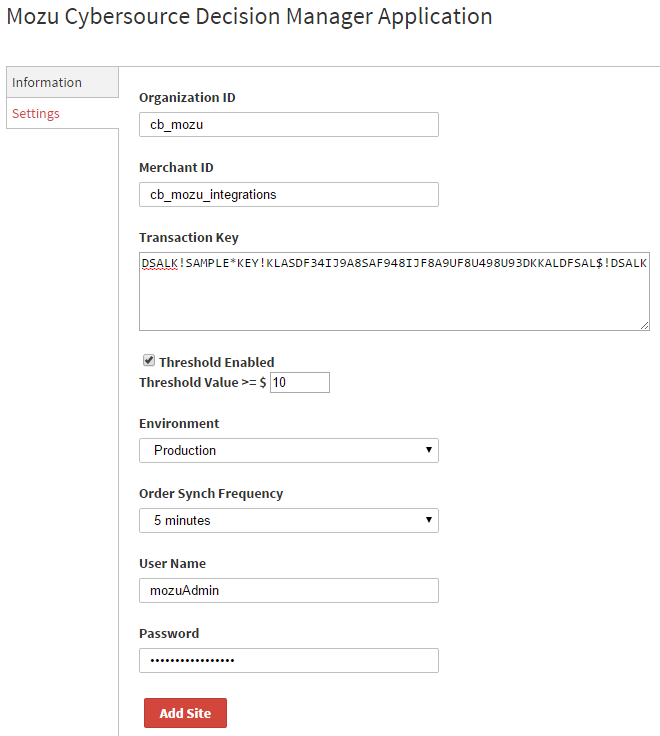
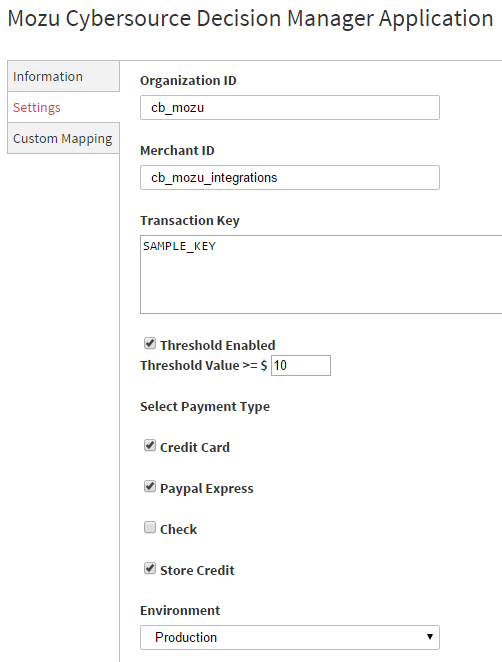
August DM docs update

diff --git a/DecisionManager/Mozu-DecisionManager-App.htm b/DecisionManager/Mozu-DecisionManager-App.htm
@@ -2,8 +2,8 @@
 <html>
     <head><title>Mozu CyberSource Decision Manager Application Configuration Guide</title>
         <meta name="author" content="Mozu" />
-        <meta name="description" content="User content for Mozu PowerReviews Enterprise Application" />
-        <meta name="keywords" content="PowerReviews,Mozu" />
+        <meta name="description" content="User content for the Mozu CyberSource Decision Manager Application" />
+        <meta name="keywords" content="Decision Manager, CyberSource, Mozu" />
 		<link rel="shortcut icon" href="http://www.mozu.com/favicon.ico" />
 		
 		<!-- Required for Scrollspy -->
@@ -145,6 +145,7 @@
 								<li>Based on the validation result, changes the order status in Mozu to Accepted or Pending Review.</li>
 								<li>Supports syncing order status information with Decison Manager at scheduled intervals. If you enable syncing, the status of an order that is pending review automatically updates in Mozu if you accept or cancel the order through the Decision Manager website.</li>
 								<li>Set a monetary threshold below which orders are not screened for fraud to avoid excessive overhead for low-value orders.</li>
+								<li>Map Mozu data to Decision Manager to faciliate the creation of fraud detection rules based on fields such as a shopper's email address or payment type.</li>
 							</ul>
                         </section>
                         <section id="install">
@@ -183,18 +184,19 @@
                                 <li>Click <b>CyberSource Decision Manager</b>.</li>
                                 <li>Click the <b>Configuration</b> link to open configuration settings.</li>
                                 <li>Open the <b>Settings</b> tab.</li>
-								<li>Add your CyberSource account information to Mozu:<br><img src="config.png" class="img-mozu">
+								<li>Add your CyberSource account information to Mozu:<br><img src="config.png" class="img-mozu"><br><img src="config2.png" class="img-mozu">
 								<ol>
 								<li>Enter your <b>Organization ID</b>.</li>
 								<li>Enter your <b>Merchant ID</b>.</li>
 								<li>Enter your <b>Transaction Key</b>.</li>
 								<li>(Optional) Enable <b>Threshold Enabled</b> to set a <b>Threshold Value</b> below or at which orders are not screened by Decision Manager. For example, you may want Decision Manager to only screen orders over $10 for fraud.</li>
+								<li>Select the <b>Payment Types</b> that you want to screen with Decision Manager.<br><br><b>Note:</b> If you select multiple payment types, Mozu sends only the largest payment type to Decision Manager for screening. For example, if you set an order threshold of $100, and an order of $150 is charged as $90 via credit card and $60 via Paypal Express, only the $90 credit card payment is sent to Decision Manager for screening.<br><br></li>
 								<li>Choose which <b>Environment</b> the Mozu CyberSource Decision Manager Application screens orders in. If you select the <b>Test</b> environment, the application sends order information to Decision Manager's test site, where you can evaluate fraud detection rules in a sandbox setting. When you are satisfied with the rules you set in Decision Manager, choose the <b>Production</b> environment to enable live fraud detection on your site.</li>
 								<li>Select an <b>Order Synch Frequency</b> to specify how often Mozu queries Decision Manager for updates on orders that are pending review. If you accept or reject an order that is pending review using the Decision Manager website instead of Mozu, then the order sync frequency determines how long it takes for the new order status to update in  Mozu.<br><br><b>Tip:</b> Balance the frequency at which you receive updates in Mozu with the amount of bandwidth you are comfortable using to send order sync queries from Mozu to Decision Manager.<br><br></li>
 								<li>If you specify an order synch frequency, enter the <b>User Name</b> and <b>Password</b> that you use to log into the CyberSource Business Center.</li>
 								</ol>
 								</li>
-								<li>(Optional) If you have more than one site, the settings you specify for the Mozu CyberSource Decision Manager Application apply to every site. However, if you want to configure different settings for a particular site, click <b>Add Site</b> (e.g., you want to use different Decision Manager accounts/transaction keys for a particular site). Any settings you configure in the new dialog apply specifically to the site you select in the drop-down.</li>
+								
 								<li>Click <b>Save</b>.</li>
                             </ol>
 							
@@ -216,7 +218,7 @@
 						<ul>
 						<li><a href="#orders">Handling Orders Flagged for Further Review</a>
                                 </li>
-								<li><a href="#rules">Customizing Fraud Detection Rules</a>
+								<li><a href="#rules">Map Mozu Fields to Custom Fraud Detection Rules</a>
 								</li></ul>
                             <h2 id="orders">Handling Orders Flagged for Further Review</h2>
                             <p>When Decision Manager screens orders it receives from Mozu, it attaches one of the following validation results to the order: accept, review, or reject. Orders tagged with "accept" change the order status in Mozu to <span style="font-family: Courier New"><b>Accepted</b></span>. No further action is required for these orders from a fraud screening perspective. Orders tagged with "review" or "reject" change the order status in Mozu to <span style="font-family: Courier New"><b>Pending Review</b></span>. To continue with the order process, accept or cancel the order in Mozu Admin:</p>
@@ -229,6 +231,7 @@
 							<li>Note whether Decision Manager accepted, rejected, or marked the order for further review.</li>
 							<li>Consider fraud risk information such as the fraud score result (<b>afsResult</b>), risk factor codes (<b>afsFactorCode</b>), and reason code (<b>ReasonCode</b>). For help interpreting all the values listed in the Decision Manager results, refer to the <em>Decision Manager Developer Guide: Using the Simple Order API</em> available through the CyberSource Business Center.<br><br><b>Example:</b> In the preceding screenshot, you can determine that Decision Manager rejected the order due to a fraud score result that may be above your ignore threshold based on risk factor codes that include phone inconsistencies and high account usage.<br><br></li>
 							</ol></li>
+							
 							<li>If you think the order is fraudulent, click <b>Cancel Order</b>. Otherwise, click <b>Accept Order</b>.</li>
 							</ol>
                             
@@ -236,8 +239,29 @@
 							
                             
                        
-                            <h2 id="rules">Customizing Fraud Detection Rules</h2>
-							<p>If you want to change the rules that Decision Manager uses to screen an order for fraud risk, use the Decision Manager website to modify the existing rules or create new custom rules. CyberSource recommends making use of the first two merchant-defined data fields (MDD1 and MDD2) for custom testing. For more information on creating custom rules and fields in Decision Manager, refer to the <em>Decision Manager User Guide</em> available through the CyberSource Business Center.</p>
+                            <h2 id="rules">Map Mozu Fields to Custom Fraud Detection Rules</h2>
+							<p>If you want to add to the rules that Decision Manager uses to screen an order for fraud risk, use the Decision Manager website to modify the existing rules or create new custom rules. To help you build custom rules, you can map Mozu fields, such as email address and payment types, to available merchant-defined data fields in Decision Manager. Afterwards, you can associate the MDD fielsd with custom fields in Decision Manager and use the custom fields in your fraud detection rules. To map these fields:</p>
+							<ol>
+								<li>Log in to Mozu Admin.</li>
+                                <li>On the Mozu Admin top bar, select <b>Settings</b> > <b>Applications</b>.</li>
+                                <li>Click <b>CyberSource Decision Manager</b>.</li>
+                                <li>Click the <b>Configuration</b> link to open configuration settings.</li>
+                                <li>Open the <b>Custom Mapping</b> tab.</li>
+                                <li>Select the <b>Merchant ID</b> that corresponds to the CyberSource account you want to set up the mappings for.</li>
+                                <li>Click <b>Add Custom Mapping</b>.<br><img src="mapping.png" class="img-mozu"><br>
+                                	<ol>
+                                		<li>Using the <b>Domain</b> drop-down menu, select the type of Mozu data you want to map to Decision Manager.</li>
+                                		<li>Select the <b>Mozu Data</b> that you want to map to Decision Manager. If the Mozu data is already mapped, Mozu does not display it in the drop-down.</li>
+                                		<li>Select which merchant-defined data field you want to map the data to. If the MDD field is already in use, Mozu does not display it in the drop-down.</li>
+                                		<li>Click <b>Save</b>.</li>
+                                	</ol>
+                                	</li>
+                                	<li>After you create a mapping, log in to your Decision Manager account and associate a custom field with a mapped MDD field. You create this association in order to use the custom field within a rule (because rules don't access MDD fields directly). For example, in Mozu you may have mapped a shopper's email address to MDD 7. If this is the case, you should map a custom field in Decision Manager to MDD 7 and name it "Email". In this way, the data you map from Mozu is accessible for use in Decision Manager rules via the custom field.</li>
+                                	<li>After you complete the previous step, create custom rules in Decision Manager that utilize the custom fields you set up, thereby taking advantage of the data Mozu maps to MDD fields with each screened order.</li>
+							</ol>
+
+
+							 <p>For more information on creating custom rules and fields in Decision Manager, refer to the <em>Decision Manager User Guide</em> available through the CyberSource Business Center.</p>
                             
                         </section>
                     </div>

diff --git a/DecisionManager/versionhistory.html b/DecisionManager/versionhistory.html
@@ -119,6 +119,7 @@
 				<nav class="bs-docs-sidebar" >
 					<ul class="nav nav-stacked" >
 						<div class="side-heading">Table of Contents</div>
+							<li><a href="#Aug2015">August 2015</a></li>
 							<li><a href="#May2015">May 2015</a></li>
 					</ul>
 				</nav>
@@ -127,6 +128,19 @@
             <div class="col-md-9 content" >
                 <!-- Documentation content -->
 				
+				<section id="Aug2015">
+					<h2>August, 2015</h2>
+					<p>Thanks for using the Mozu CyberSource Decision Manager Application! Here's what new in this version:</p>
+					<ul>
+								<li>You can now map Mozu fields (for example, the email address or payment type associated with an order) to MDD fields in Decision Manager. You can then associate the MDD data in Decision Manager with custom fields in order to create fraud detection rules that leverage the data mapped by Mozu.</li>
+								<li>You can now specify which payment types (credit card, PayPal Express, check, or store credit) to send to Decision Manager, allowing you to select all, none, or some combination of payment types to screen.</li>
+								<li>The Mozu CyberSource Decision Manager Application now supports Visa Checkout as a valid payment method in Mozu.</li>
+								<li>Pending orders are now included in the total order count within Decision Manager.</li>
+								<li>Performance improvements: Removed unnecessary calls to Decision Manager when you select CyberSource as your payment gateway in Mozu.</li>
+								<li>Bug fixes: Problems associated with sending credit card details to Decision Manager.</li>
+							</ul>
+				</section>
+
 				<section id="May2015">
 					<h2>May, 2015</h2>
 					<p>Initial release of the Mozu CyberSource Decision Manager Application! This application enables you to:</p>

diff --git a/Preview/DecisionManager/Mozu-DecisionManager-App.htm b/Preview/DecisionManager/Mozu-DecisionManager-App.htm
@@ -2,8 +2,8 @@
 <html>
     <head><title>Mozu CyberSource Decision Manager Application Configuration Guide</title>
         <meta name="author" content="Mozu" />
-        <meta name="description" content="User content for Mozu PowerReviews Enterprise Application" />
-        <meta name="keywords" content="PowerReviews,Mozu" />
+        <meta name="description" content="User content for the Mozu CyberSource Decision Manager Application" />
+        <meta name="keywords" content="Decision Manager, CyberSource, Mozu" />
 		<link rel="shortcut icon" href="http://www.mozu.com/favicon.ico" />
 		
 		<!-- Required for Scrollspy -->
